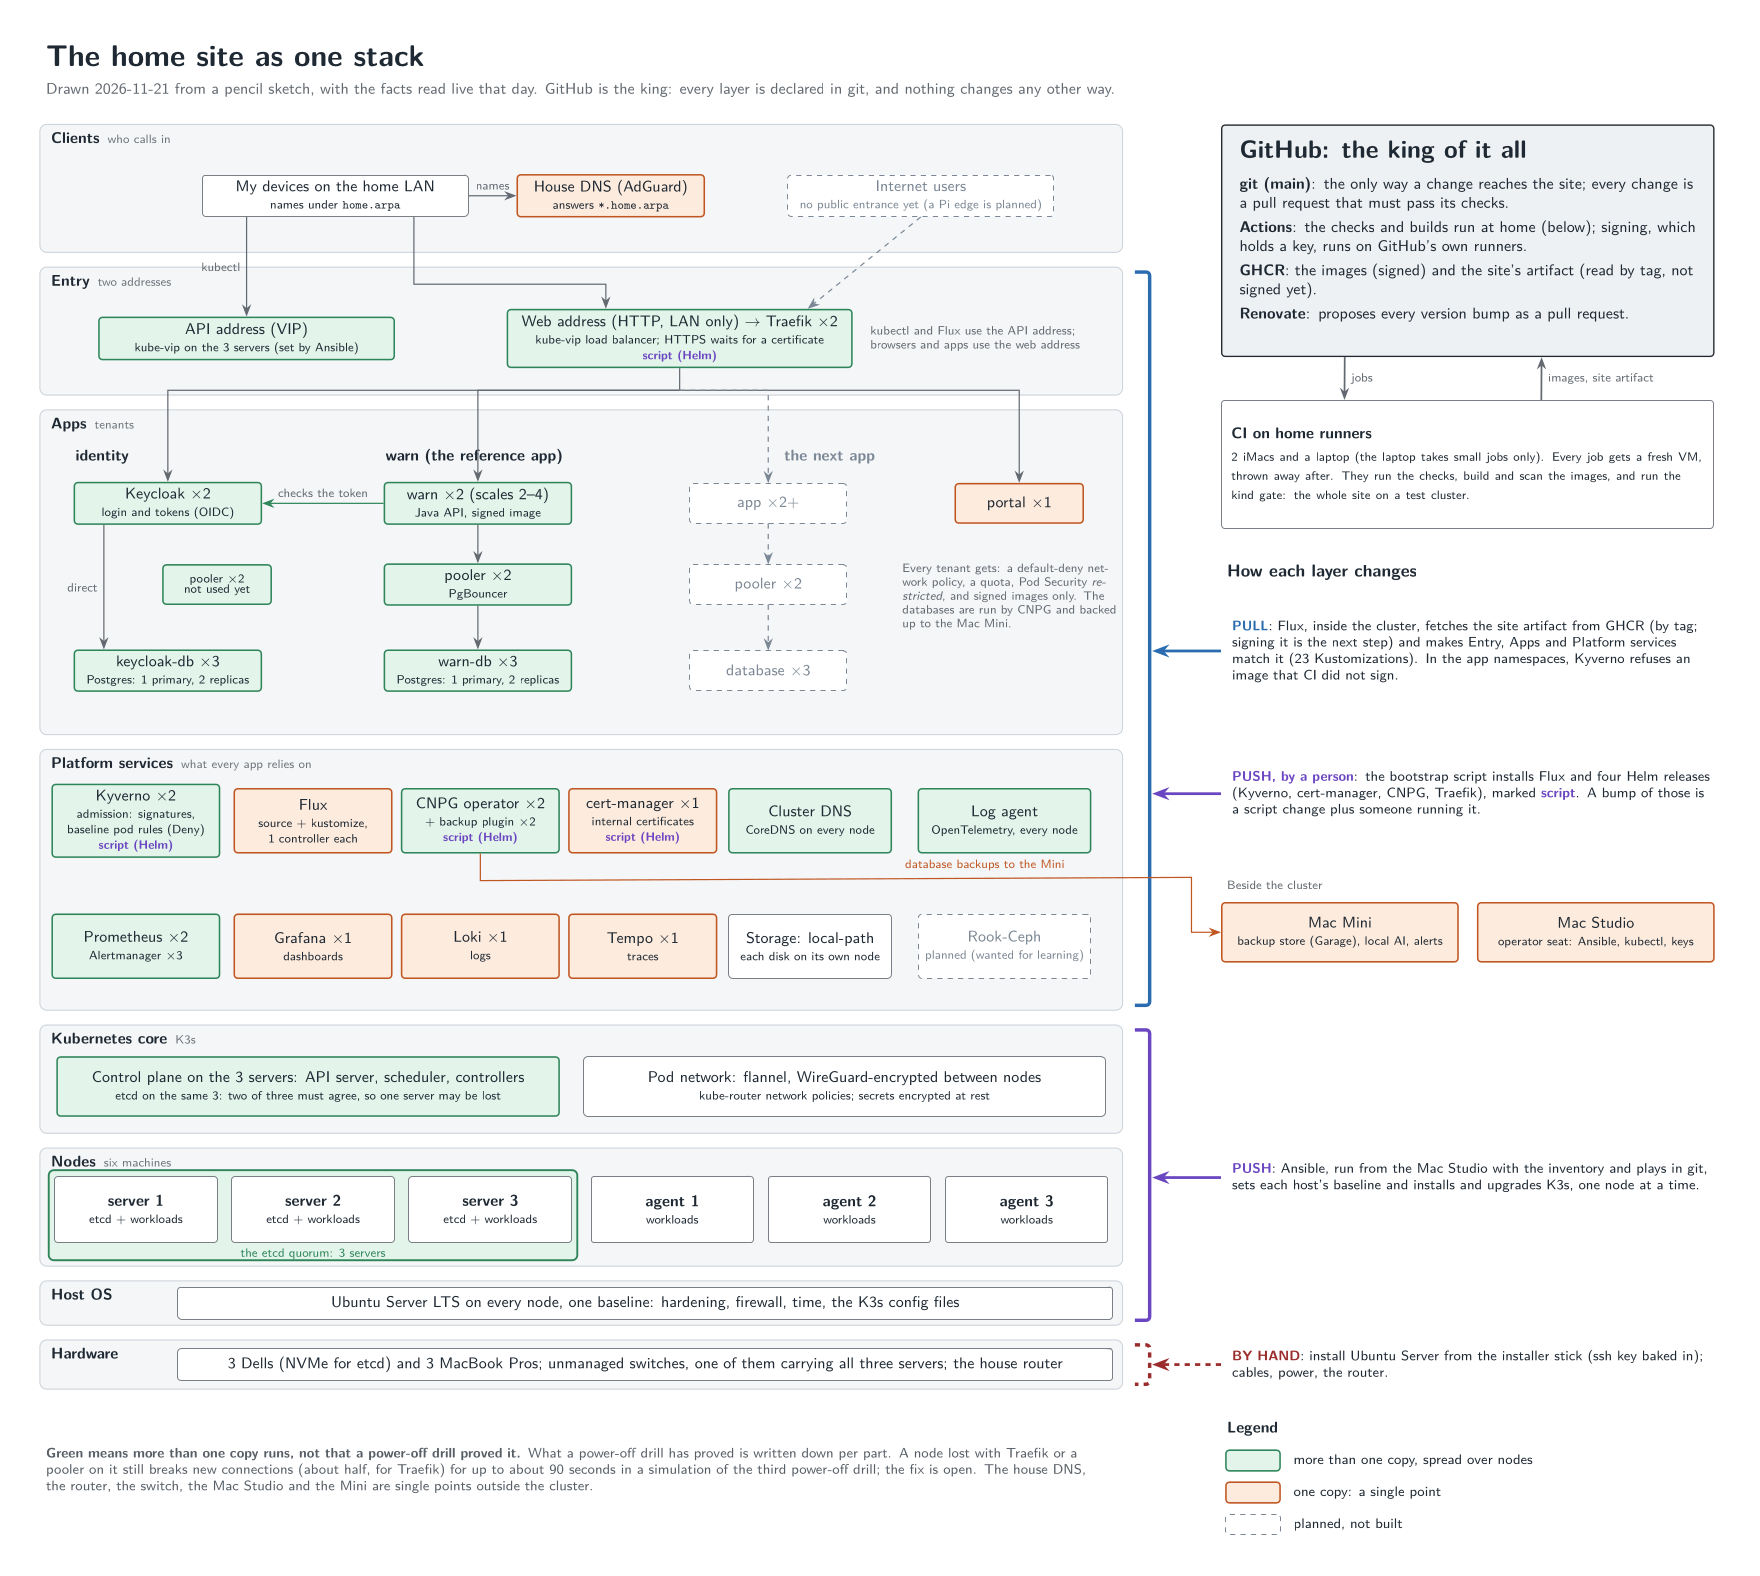
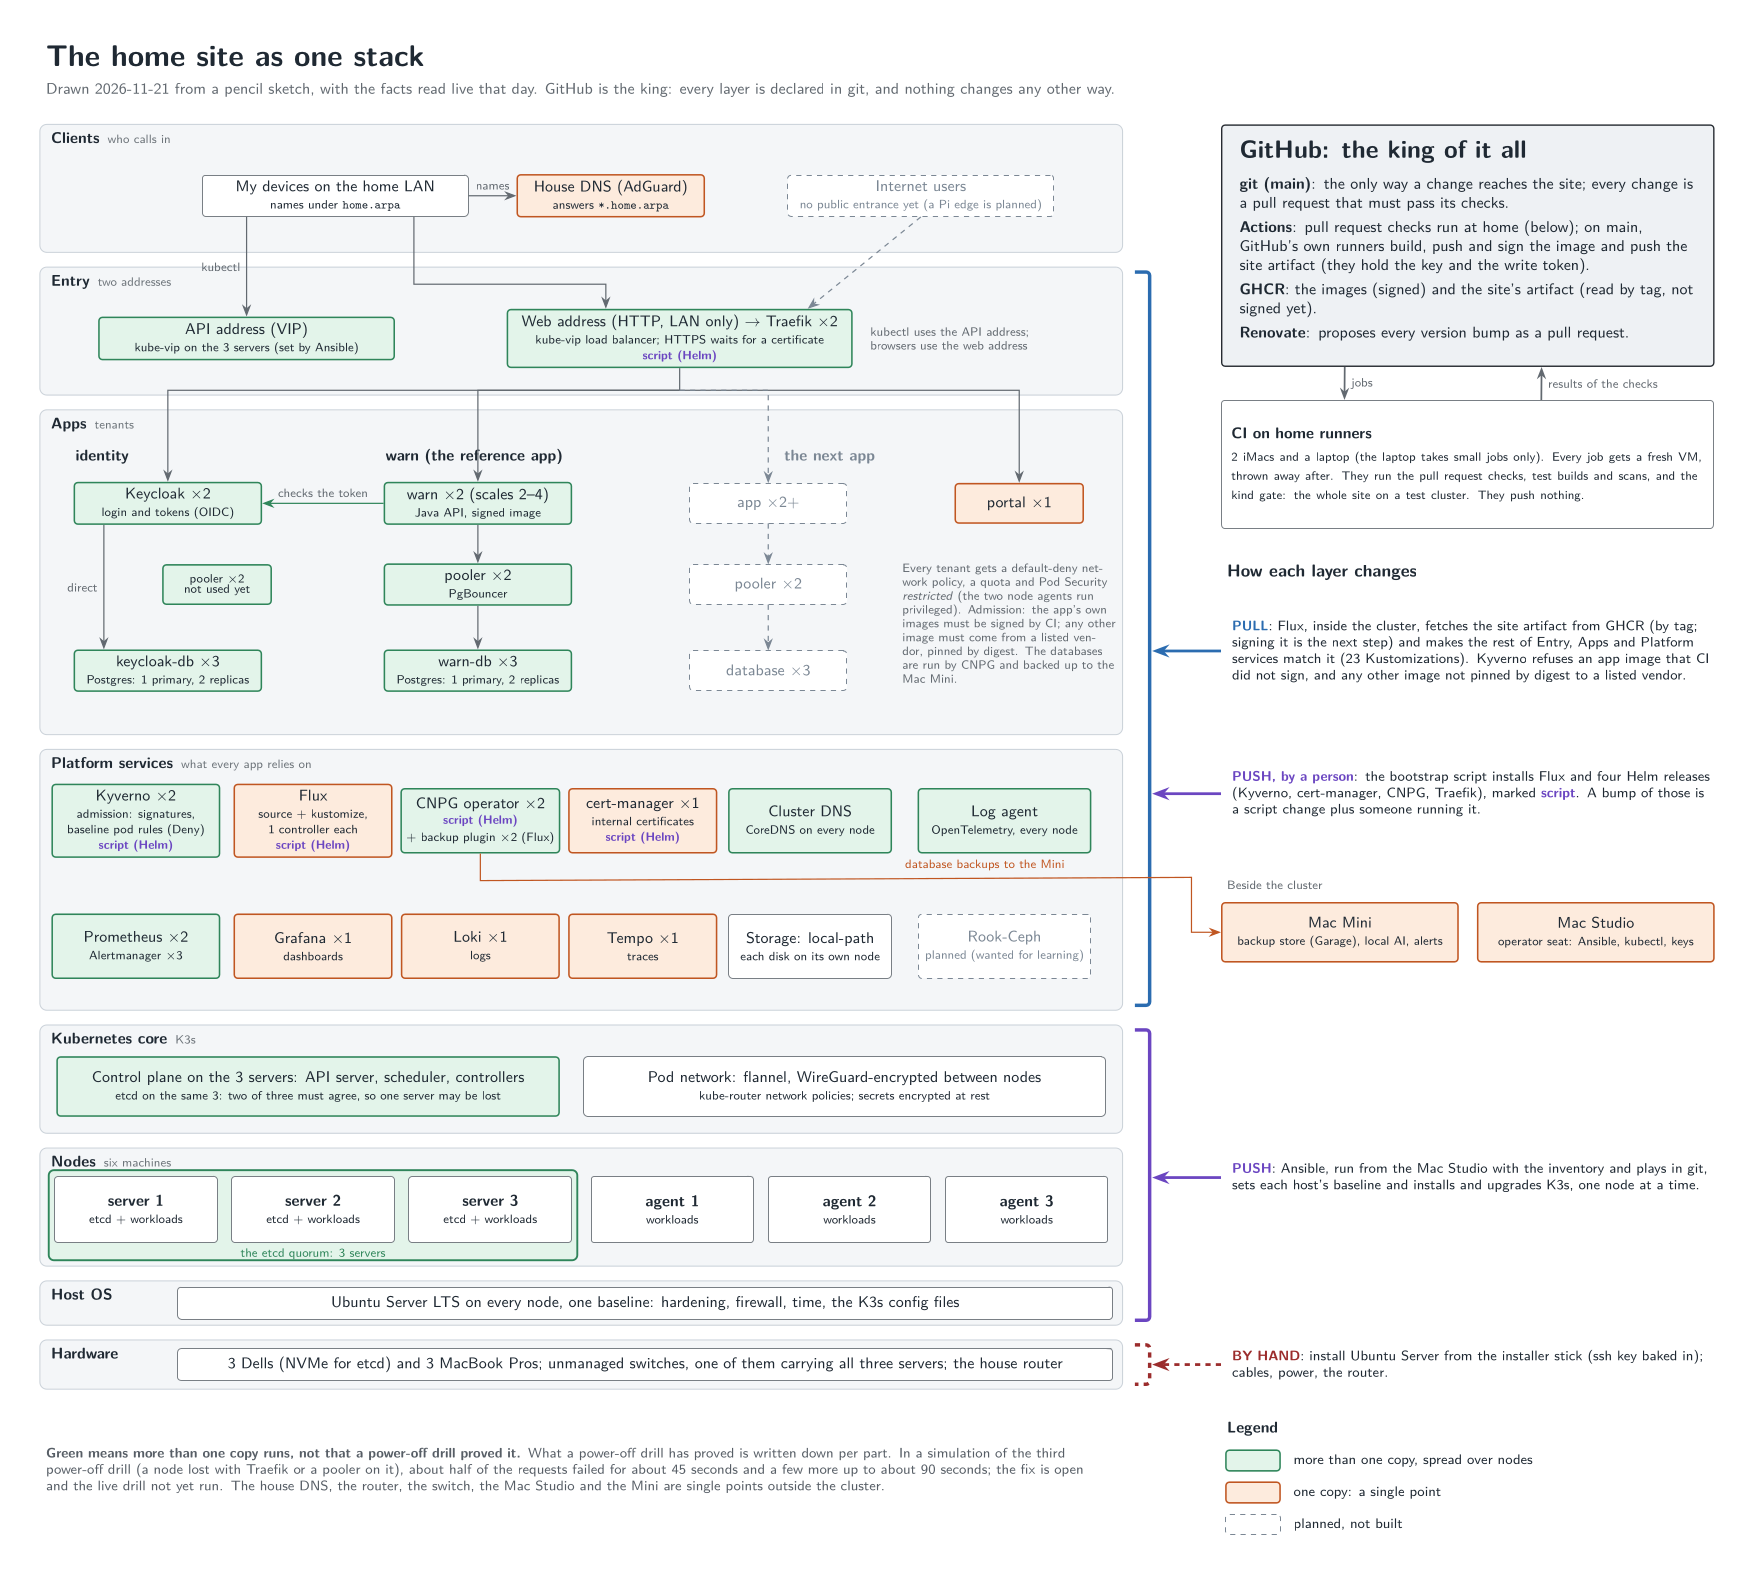
platform page: correct the stack picture after the independent fact check
On main the image and the site artifact are built and pushed by GitHub's own runners, which also sign the image; the home
runners run pull request checks and push nothing. Admission signs only the app's own images and pins every other to a
listed vendor; the node agents run privileged. kubectl, not Flux, uses the API address. The backup plugin comes from Flux and
Flux itself from the script. The drill-3 simulation: about half the requests failed for about 45 s, a few more up to 90 s;
the live drill has not run.

diff --git a/docs/assets/diagrams/stack.tex b/docs/assets/diagrams/stack.tex
@@ -67,7 +67,7 @@
 % ---------------------------------------------------------------- entry
 \node[multi, minimum width=6.0cm] (apivip) at (4.2,21.65) {API address (VIP)\\[-1pt]\scriptsize kube-vip on the 3 servers (set by Ansible)};
 \node[multi, minimum width=7.0cm] (webip) at (13.0,21.65) {Web address (HTTP, LAN only) $\to$ Traefik $\times$2\\[-1pt]\scriptsize kube-vip load balancer; HTTPS waits for a certificate\script};
-\node[tag, align=left, anchor=west] at (16.75,21.65) {kubectl and Flux use the API address;\\browsers and apps use the web address};
+\node[tag, align=left, anchor=west] at (16.75,21.65) {kubectl uses the API address;\\browsers use the web address};
 \draw[flow] ($(owner.south)+(-1.8,0)$) -- node[left, tag] {kubectl} ($(apivip.north)+(0,0)$ -| {$(owner.south)+(-1.8,0)$});
 \draw[flow] ($(owner.south)+(1.6,0)$) |- ($(webip.north)+(-1.5,0.5)$) -- ($(webip.north)+(-1.5,0)$);
 \draw[flow, dashed, draw=plan] (internet.south) -- ($(webip.north)+(2.6,0)$);
@@ -96,7 +96,7 @@
 
 \node[single, minimum width=2.6cm] (portal) at (19.9,18.3) {portal $\times$1};
 \node[tag, align=left, anchor=north west, text width=4.4cm] at (17.4,17.2)
-  {Every tenant gets: a default-deny network policy, a quota, Pod Security \emph{restricted}, and signed images only. The databases are run by CNPG and backed up to the Mac Mini.};
+  {Every tenant gets a default-deny network policy, a quota and Pod Security \emph{restricted} (the two node agents run privileged). Admission: the app's own images must be signed by CI; any other image must come from a listed vendor, pinned by digest. The databases are run by CNPG and backed up to the Mac Mini.};
 
 % traffic from the web address to the apps
 \coordinate (fan) at ($(webip.south)+(0,-0.45)$);
@@ -109,8 +109,8 @@
 % ---------------------------------------------------------------- platform services
 \newcommand{\svc}[5]{\node[#1, minimum width=#2, minimum height=1.3cm] (#3) at #4 {#5};}
 \svc{multi}{3.4cm}{kyverno}{(1.95,11.85)}{Kyverno $\times$2\\[-1pt]\scriptsize admission: signatures,\\[-2pt]\scriptsize baseline pod rules (Deny)\script}
-\svc{single}{3.2cm}{flux}{(5.55,11.85)}{Flux\\[-1pt]\scriptsize source + kustomize,\\[-2pt]\scriptsize 1 controller each}
-\svc{multi}{3.2cm}{cnpg}{(8.95,11.85)}{CNPG operator $\times$2\\[-1pt]\scriptsize + backup plugin $\times$2\script}
+\svc{single}{3.2cm}{flux}{(5.55,11.85)}{Flux\\[-1pt]\scriptsize source + kustomize,\\[-2pt]\scriptsize 1 controller each\script}
+\svc{multi}{3.2cm}{cnpg}{(8.95,11.85)}{CNPG operator $\times$2\script\\[-1pt]\scriptsize + backup plugin $\times$2 (Flux)}
 \svc{single}{3.0cm}{certm}{(12.25,11.85)}{cert-manager $\times$1\\[-1pt]\scriptsize internal certificates\script}
 \svc{multi}{3.3cm}{dns}{(15.65,11.85)}{Cluster DNS\\[-1pt]\scriptsize CoreDNS on every node}
 \svc{multi}{3.5cm}{logagent}{(19.6,11.85)}{Log agent\\[-1pt]\scriptsize OpenTelemetry, every node}
@@ -147,27 +147,27 @@
   {3 Dells (NVMe for etcd) and 3 MacBook Pros; unmanaged switches, one of them carrying all three servers; the house router};
 
 % ================================================================ right side (x 24..34)
-\node[ghbox, minimum width=10cm, minimum height=4.7cm, anchor=north west] (gh) at (24.0,26.0) {};
+\node[ghbox, minimum width=10cm, minimum height=4.9cm, anchor=north west] (gh) at (24.0,26.0) {};
 \node[font=\bfseries\Large, anchor=north west] at (24.25,25.8) {GitHub: the king of it all};
 \node[anchor=north west, align=left, font=\small, text width=9.4cm] at (24.25,25.05) {%
   \textbf{git (main)}: the only way a change reaches the site; every change is a pull request that must pass its checks.\\[3pt]
-  \textbf{Actions}: the checks and builds run at home (below); signing, which holds a key, runs on GitHub's own runners.\\[3pt]
+  \textbf{Actions}: pull request checks run at home (below); on main, GitHub's own runners build, push and sign the image and push the site artifact (they hold the key and the write token).\\[3pt]
   \textbf{GHCR}: the images (signed) and the site's artifact (read by tag, not signed yet).\\[3pt]
   \textbf{Renovate}: proposes every version bump as a pull request.};
 
 \node[box, minimum width=10cm, minimum height=2.6cm, anchor=north west, align=left, text width=9.6cm] (ci) at (24.0,20.4) {%
   \textbf{CI on home runners}\\[2pt]
   \scriptsize 2 iMacs and a laptop (the laptop takes small jobs only). Every job gets a fresh VM, thrown away after.
-  They run the checks, build and scan the images, and run the kind gate: the whole site on a test cluster.};
+  They run the pull request checks, test builds and scans, and the kind gate: the whole site on a test cluster. They push nothing.};
 \draw[flow, line width=1pt] ($(gh.south)+(-2.5,0)$) -- node[right, tag] {jobs} ($(ci.north)+(-2.5,0)$);
-\draw[flow, line width=1pt] ($(ci.north)+(1.5,0)$) -- node[right, tag] {images, site artifact} ($(gh.south)+(1.5,0)$);
+\draw[flow, line width=1pt] ($(ci.north)+(1.5,0)$) -- node[right, tag] {results of the checks} ($(gh.south)+(1.5,0)$);
 
 \node[font=\bfseries\normalsize, anchor=west] at (24.0,16.9) {How each layer changes};
 
 % PULL: Entry, Apps, Platform services
 \draw[bracket, draw=pull] (22.25,23.0) -- (22.55,23.0) -- (22.55,8.1) -- (22.25,8.1);
 \draw[-{Stealth[length=3.5mm]}, line width=1.6pt, draw=pull] (24.0,15.3) -- (22.6,15.3);
-\node[how, text width=9.8cm] at (24.1,15.3) {\textcolor{pull}{\textbf{PULL}}: Flux, inside the cluster, fetches the site artifact from GHCR (by tag; signing it is the next step) and makes Entry, Apps and Platform services match it (23 Kustomizations). In the app namespaces, Kyverno refuses an image that CI did not sign.};
+\node[how, text width=9.8cm] at (24.1,15.3) {\textcolor{pull}{\textbf{PULL}}: Flux, inside the cluster, fetches the site artifact from GHCR (by tag; signing it is the next step) and makes the rest of Entry, Apps and Platform services match it (23 Kustomizations). Kyverno refuses an app image that CI did not sign, and any other image not pinned by digest to a listed vendor.};
 
 % PUSH by script: the four Helm releases
 \draw[-{Stealth[length=3.5mm]}, line width=1.6pt, draw=push] (24.0,12.4) -- (22.6,12.4);
@@ -200,8 +200,8 @@
 \node[how] at (25.35,-2.45) {planned, not built};
 \node[how, text width=21.6cm, text=ink!75] at (0,-1.35) {%
   \textbf{Green means more than one copy runs, not that a power-off drill proved it.} What a power-off drill has proved is
-  written down per part. A node lost with Traefik or a pooler on it still breaks new connections (about half, for Traefik) for up to about 90 seconds
-  in a simulation of the third power-off drill; the fix is open. The house DNS, the router, the switch, the Mac Studio and the Mini are single points outside the cluster.};
+  written down per part. In a simulation of the third power-off drill (a node lost with Traefik or a pooler on it), about half of the requests
+  failed for about 45 seconds and a few more up to about 90 seconds; the fix is open and the live drill not yet run. The house DNS, the router, the switch, the Mac Studio and the Mini are single points outside the cluster.};
 
 \end{tikzpicture}
 \end{document}

diff --git a/docs/platform.md b/docs/platform.md
@@ -42,8 +42,8 @@ The colours count copies:
 - **dashed:** planned, not built.
 
 Green is not the same as proven by a drill. In a simulation of the third power-off drill, losing a node that carries the
-ingress or a database pooler still broke new connections for up to about 90 seconds (about half of them, at the ingress),
-and that fix is open. The picture also marks what is not there yet: HTTPS on the web address waits for a certificate, and the
+ingress or a database pooler failed about half of the requests for about 45 seconds and a few more up to about 90 seconds;
+that fix is open, and the live drill has not run yet. The picture also marks what is not there yet: HTTPS on the web address waits for a certificate, and the
 site's own artifact is read by tag, not yet signed; only the images are. It was first drawn in pencil and redrawn in TikZ.
 
 <a href="assets/diagrams/stack.pdf"><img src="assets/diagrams/stack.png" alt="The home site as one stack: clients, entry, apps, platform services, the Kubernetes core, six nodes, host OS and hardware on the left; GitHub, CI on home runners and how each layer changes (pull, push, by hand) on the right" width="1760" loading="lazy" style="max-width:100%;height:auto"></a>
